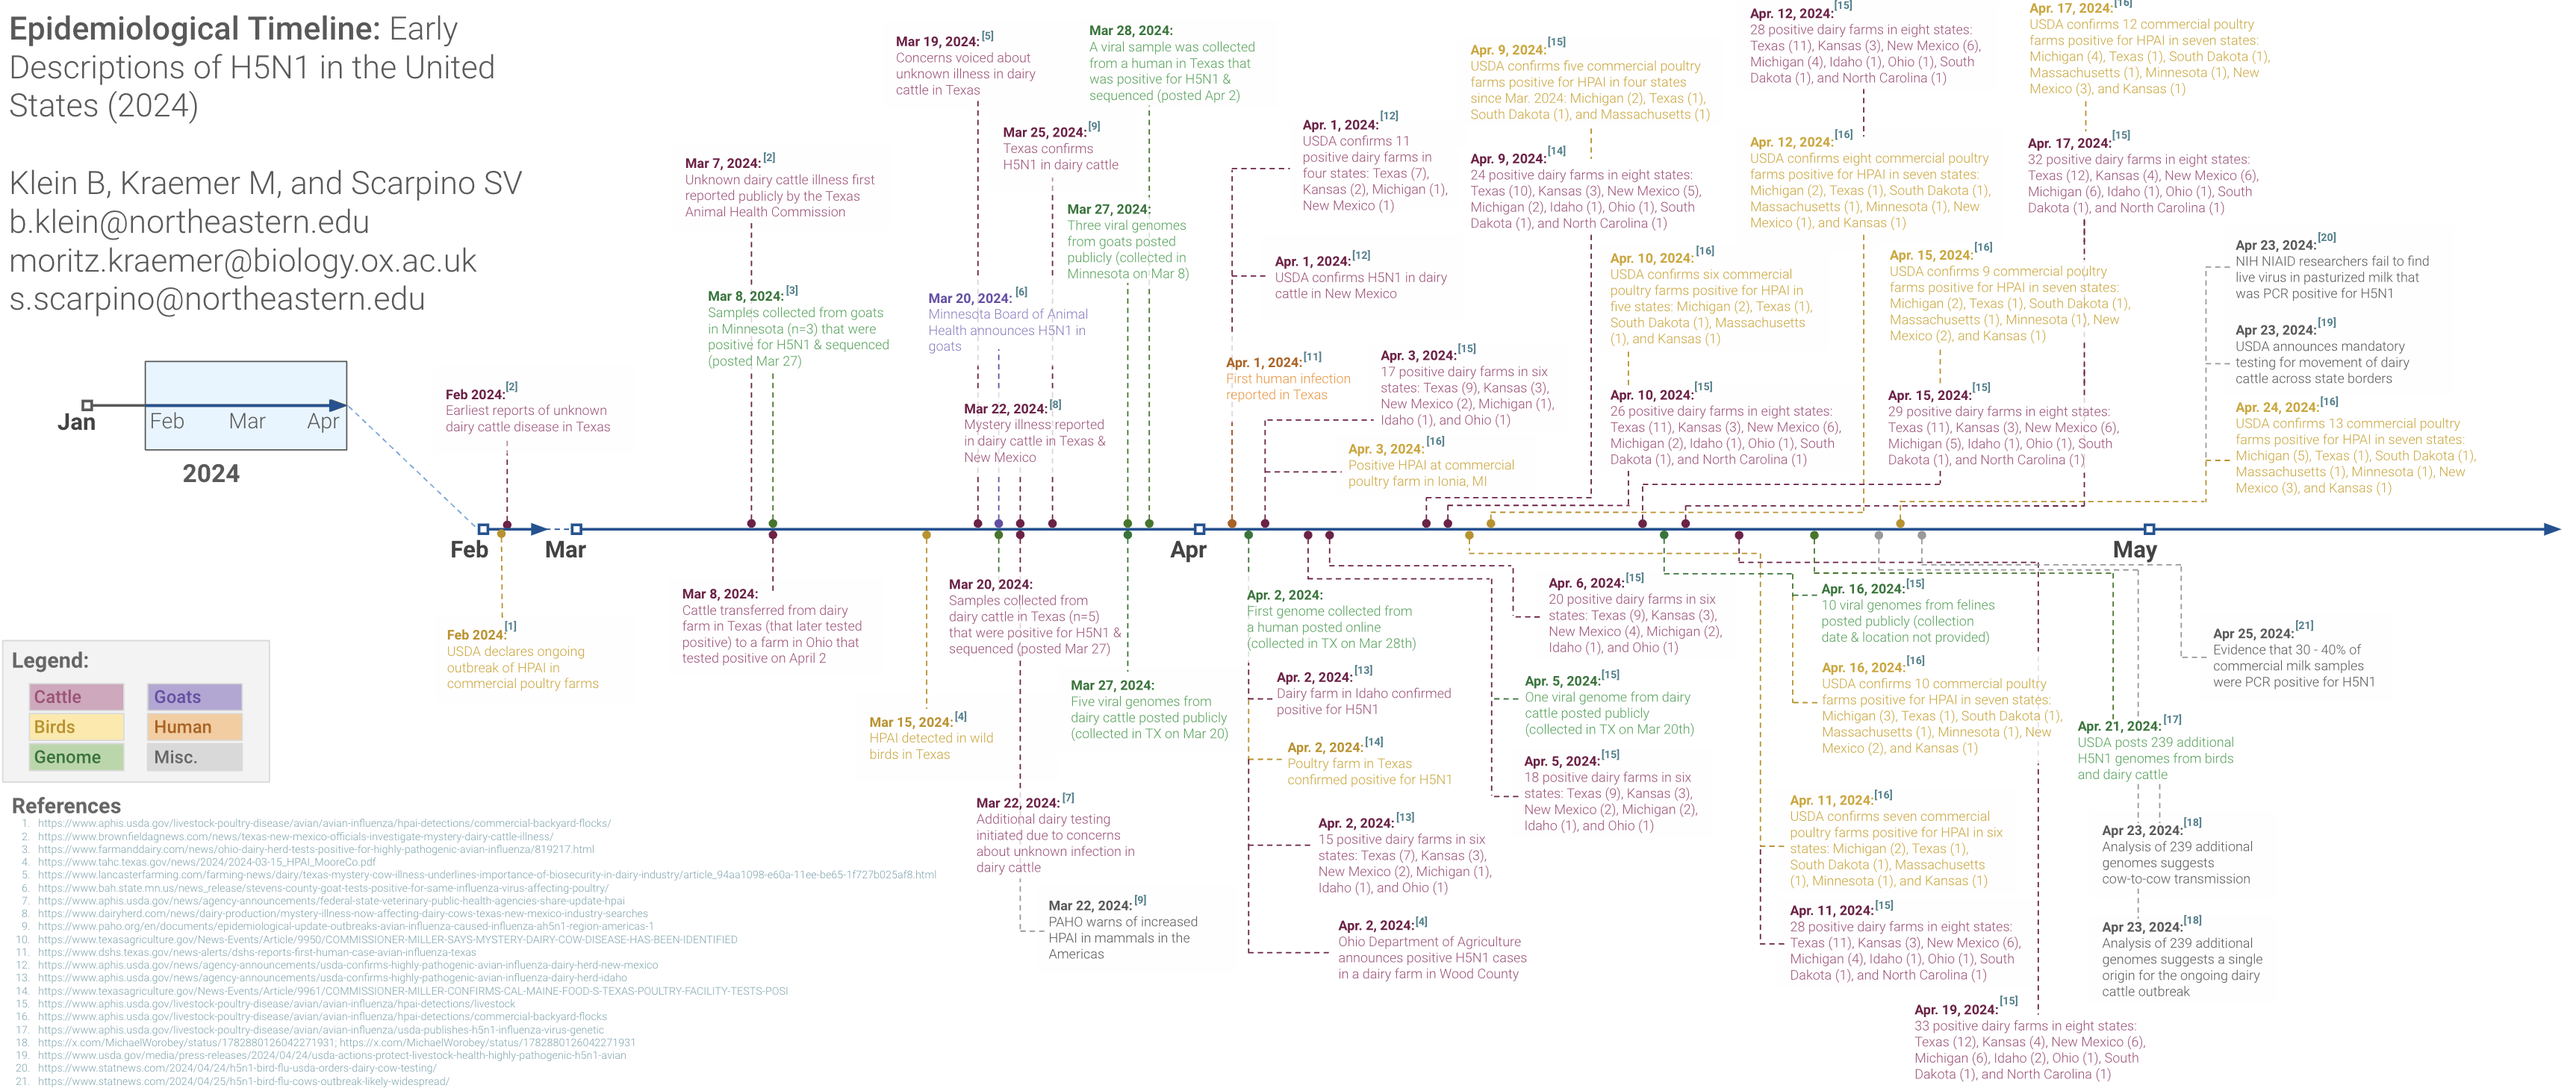
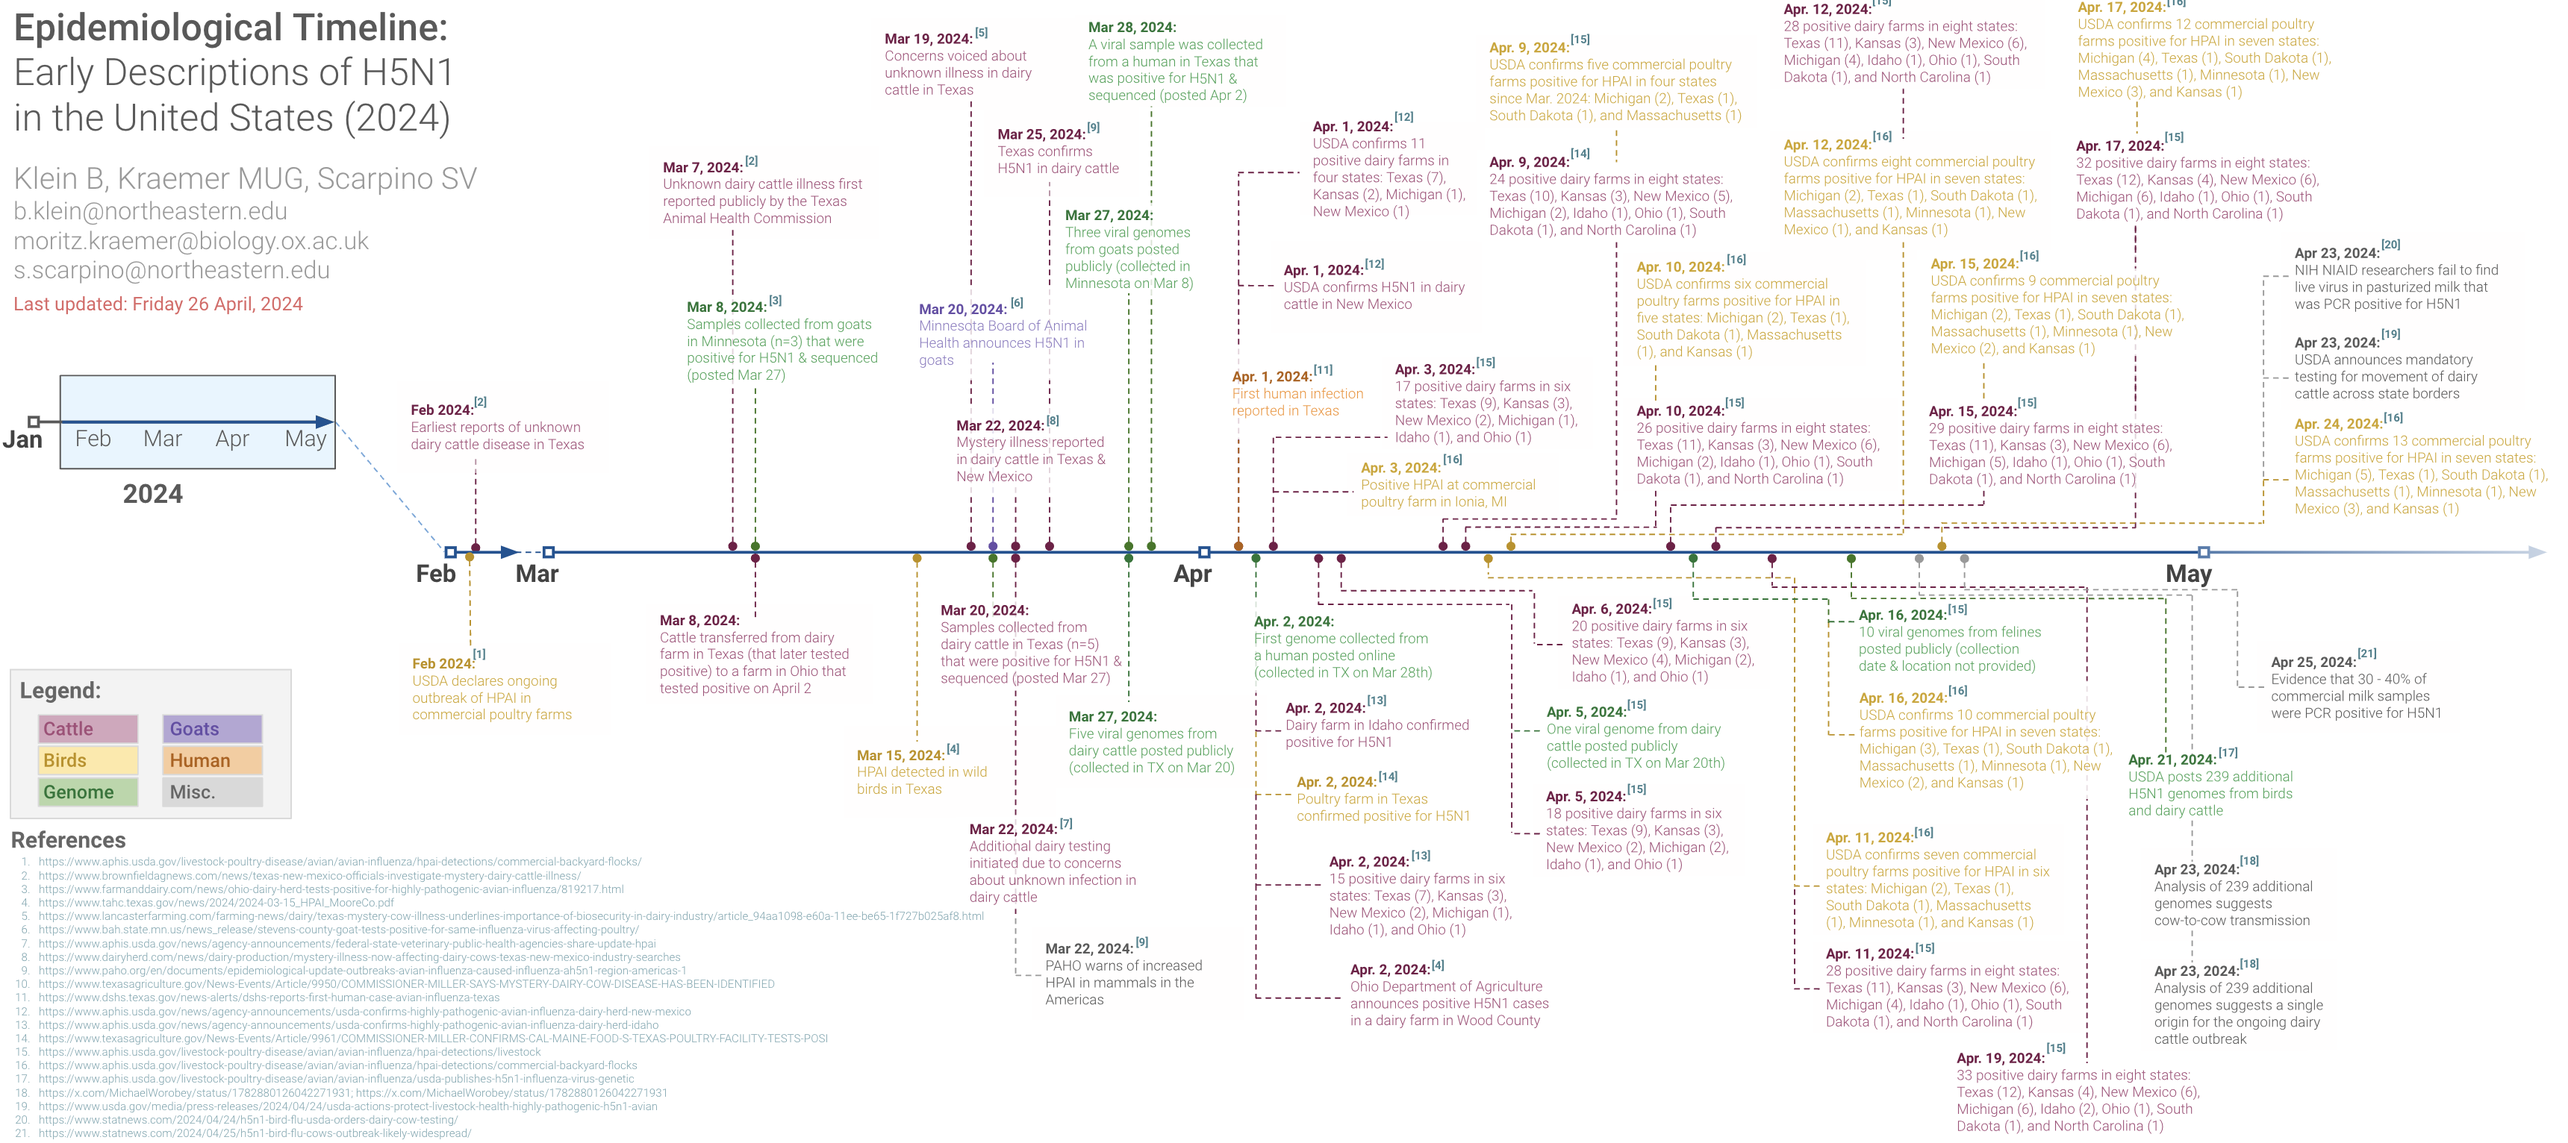
updating names

diff --git a/README.md b/README.md
@@ -2,7 +2,9 @@
 Data associated with the timeline of events during the 2024 H5N1 outbreak in the United States
 
 ### Citation
-Klein B, Kraemer M, and Scarpino SV. 2024. Timeline for H5N1 in the USA during the 2024 Outbreak. https://github.com/Emergent-Epidemics/H5N1_US2024_timeline
+Klein B, Kraemer MUG, and Scarpino SV. 2024. Timeline for H5N1 in the USA during the 2024 Outbreak. 10.5281/zenodo.11074935 https://github.com/Emergent-Epidemics/H5N1_US2024_timeline 
+
+DOI: 10.5281/zenodo.11074935
 
 ### Acknowledgements
 We want to thank all the individuals and organizations across the world who have been willing and able to report data in as open and timely manner as possible. 
